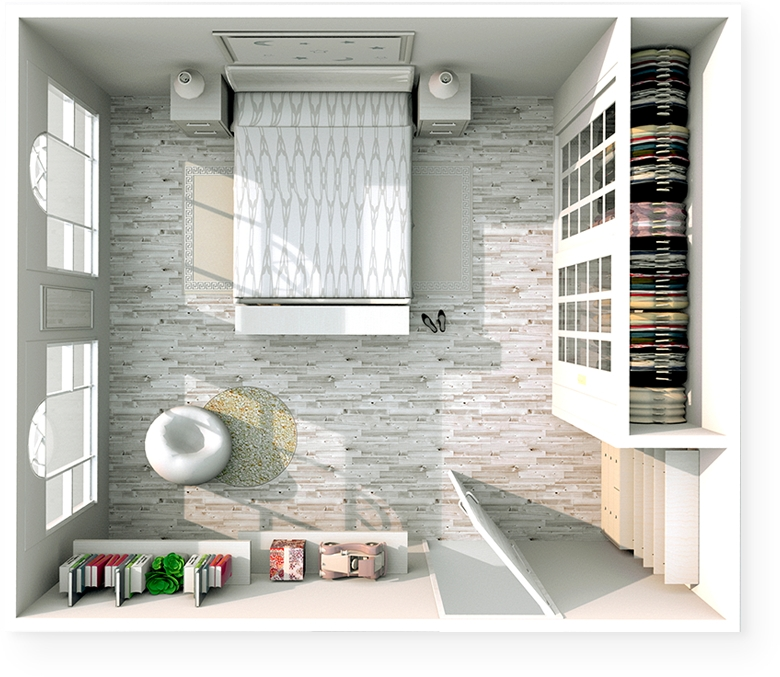
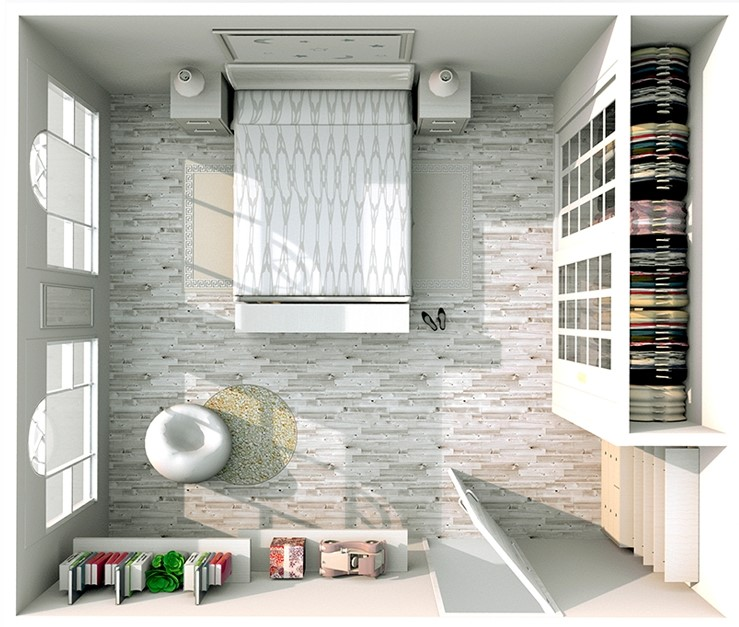
Обновляю файлы сайта

diff --git a/css/style.css b/css/style.css
@@ -459,9 +459,20 @@ template {
   font-size: 20px;
 }
 
-.main-img {
+.main-image {
   -ms-flex-preferred-size: 50%;
       flex-basis: 50%;
+}
+
+.main-image img {
+  position: relative;
+  -webkit-transform-origin: top left;
+          transform-origin: top left;
+  -webkit-transform: scale(1.35);
+          transform: scale(1.35);
+  z-index: 9;
+  -webkit-box-shadow: 3px 3px 3px 0px rgba(0, 0, 0, 0.25);
+          box-shadow: 3px 3px 3px 0px rgba(0, 0, 0, 0.25);
 }
 
 .main-advantages {
@@ -514,11 +525,24 @@ template {
 }
 
 .feedback {
+  position: relative;
   padding: 70px 0;
   background-image: url("../img/feedback/feedback-bg.jpg");
-  background-size: 44%;
+  background-size: contain;
   background-repeat: no-repeat;
-  background-position: right;
+  background-position: center right;
+  z-index: 1;
+}
+
+.feedback:before {
+  content: ' ';
+  position: absolute;
+  top: 0;
+  left: 0;
+  width: 60%;
+  height: 100%;
+  background-color: #fff;
+  z-index: -1;
 }
 
 .form {
@@ -618,6 +642,7 @@ template {
 }
 
 body {
+  overflow-x: hidden;
   font-family: 'Museo Sans Light', sans-serif;
   color: #333333;
 }
@@ -632,6 +657,44 @@ button:active, button:focus, input:active, input:focus {
 }
 
 img {
-  width: 100%;
+  max-width: 100%;
+}
+
+@media (max-width: 1600px) {
+  .main-image img {
+    -webkit-transform: scale(1.2);
+            transform: scale(1.2);
+  }
+}
+
+@media (max-width: 1450px) {
+  .main-image img {
+    -webkit-transform: scale(1);
+            transform: scale(1);
+  }
+}
+
+@media (max-width: 1200px) {
+  .container {
+    width: 960px;
+  }
+}
+
+@media (max-width: 992px) {
+  .container {
+    width: 960px;
+  }
+}
+
+@media (max-width: 768px) {
+  .container {
+    width: 960px;
+  }
+}
+
+@media (max-width: 576px) {
+  .container {
+    width: 960px;
+  }
 }
 /*# sourceMappingURL=style.css.map */

diff --git a/index.html b/index.html
@@ -36,7 +36,7 @@
 			<div class="main-text">
 				<h1 class="main-text__title">
 					Внутренняя отделка помещений "под ключ"
-					<span class="main-text__subtitle">с гарантией качества, прописанной в договоре</span>
+					<span class="main-text__subtitle">с гарантией качества, прописанной в&nbsp;договоре</span>
 				</h1>
 				<div class="main-advantages">
 					<div class="main-advantages__item">

diff --git a/sass/_feedback.sass b/sass/_feedback.sass
@@ -1,10 +1,21 @@
 .feedback
+	position: relative
 	padding: 70px 0
 	background: 
 		image: url('../img/feedback/feedback-bg.jpg')
-		size: 44%
+		size: contain
 		repeat: no-repeat
-		position: right
+		position: center right
+	z-index: 1
+	&:before
+		content: ' '
+		position: absolute
+		top: 0
+		left: 0
+		width: 60%
+		height: 100%
+		background-color: #fff
+		z-index: -1
 
 .form
 	max-width: 575px

diff --git a/sass/_media.sass b/sass/_media.sass
@@ -1,0 +1,29 @@
+@media (max-width: 1600px)
+	.main
+		&-image
+			img
+				transform: scale(1.2)
+
+@media (max-width: 1450px)
+	.main
+		&-image
+			img
+				transform: scale(1)
+
+@media (max-width: 1200px)
+	.container
+		width: 960px
+	.main
+		&-text
+			&__title
+		&-image
+
+@media (max-width: 992px)
+
+
+
+@media (max-width: 768px)
+
+
+
+@media (max-width: 576px)

diff --git a/sass/_main.sass b/sass/_main.sass
@@ -14,8 +14,14 @@
 			display: block
 			margin-top: 20px
 			font-size: 20px
-	&-img
+	&-image
 		flex-basis: 50%
+		img
+			position: relative
+			transform-origin: top left
+			transform: scale(1.35)
+			z-index: 9
+			box-shadow: 3px 3px 3px 0px rgba(0,0,0,0.25)
 	&-advantages
 		display: flex
 		flex-direction: column

diff --git a/sass/style.sass b/sass/style.sass
@@ -11,7 +11,8 @@
 *, *::after, *::before
 	box-sizing: border-box
 
-body 
+body
+	overflow-x: hidden
 	font-family: 'Museo Sans Light', sans-serif
 	color: $text-color
 
@@ -24,4 +25,6 @@ button, input
 		outline: none
 
 img 
-	width: 100%
+	max-width: 100%
+
+@import 'media'
